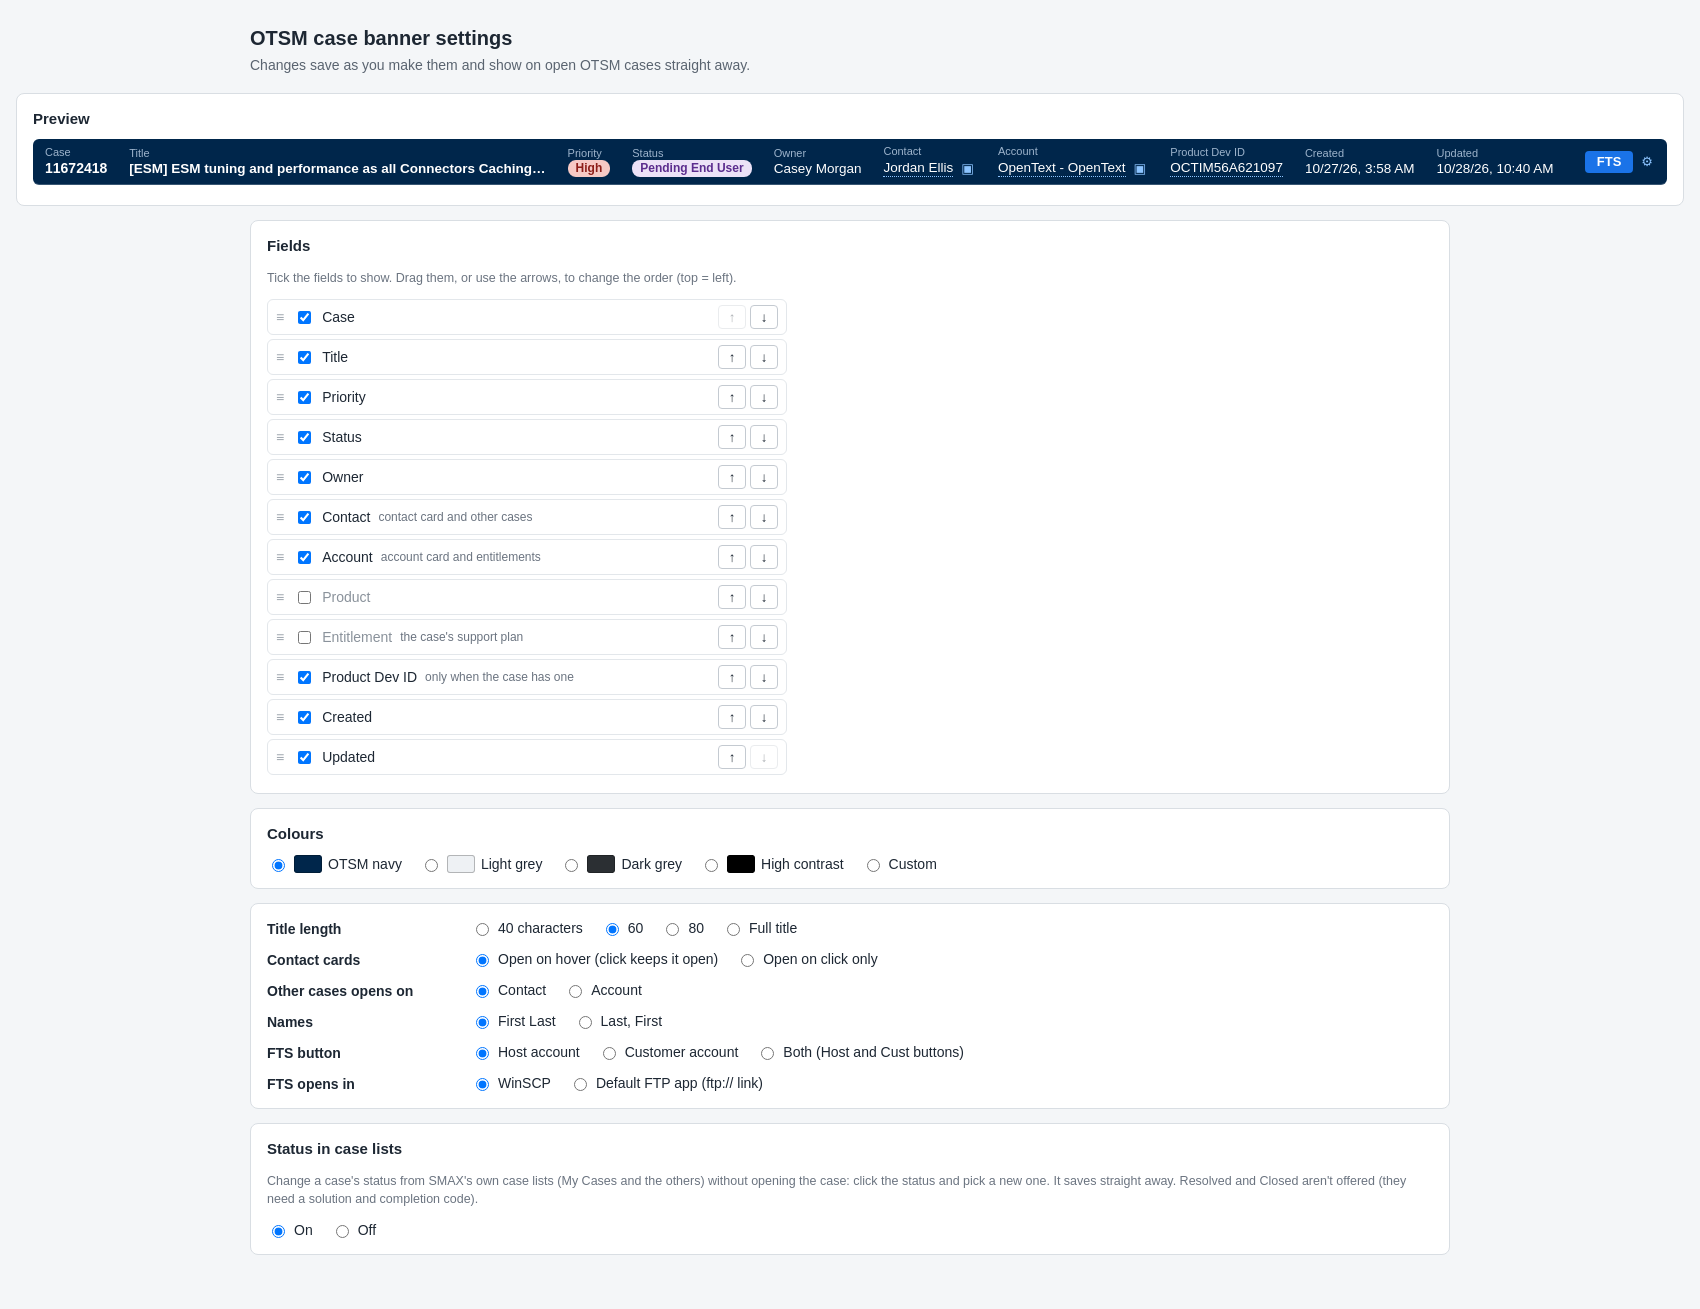
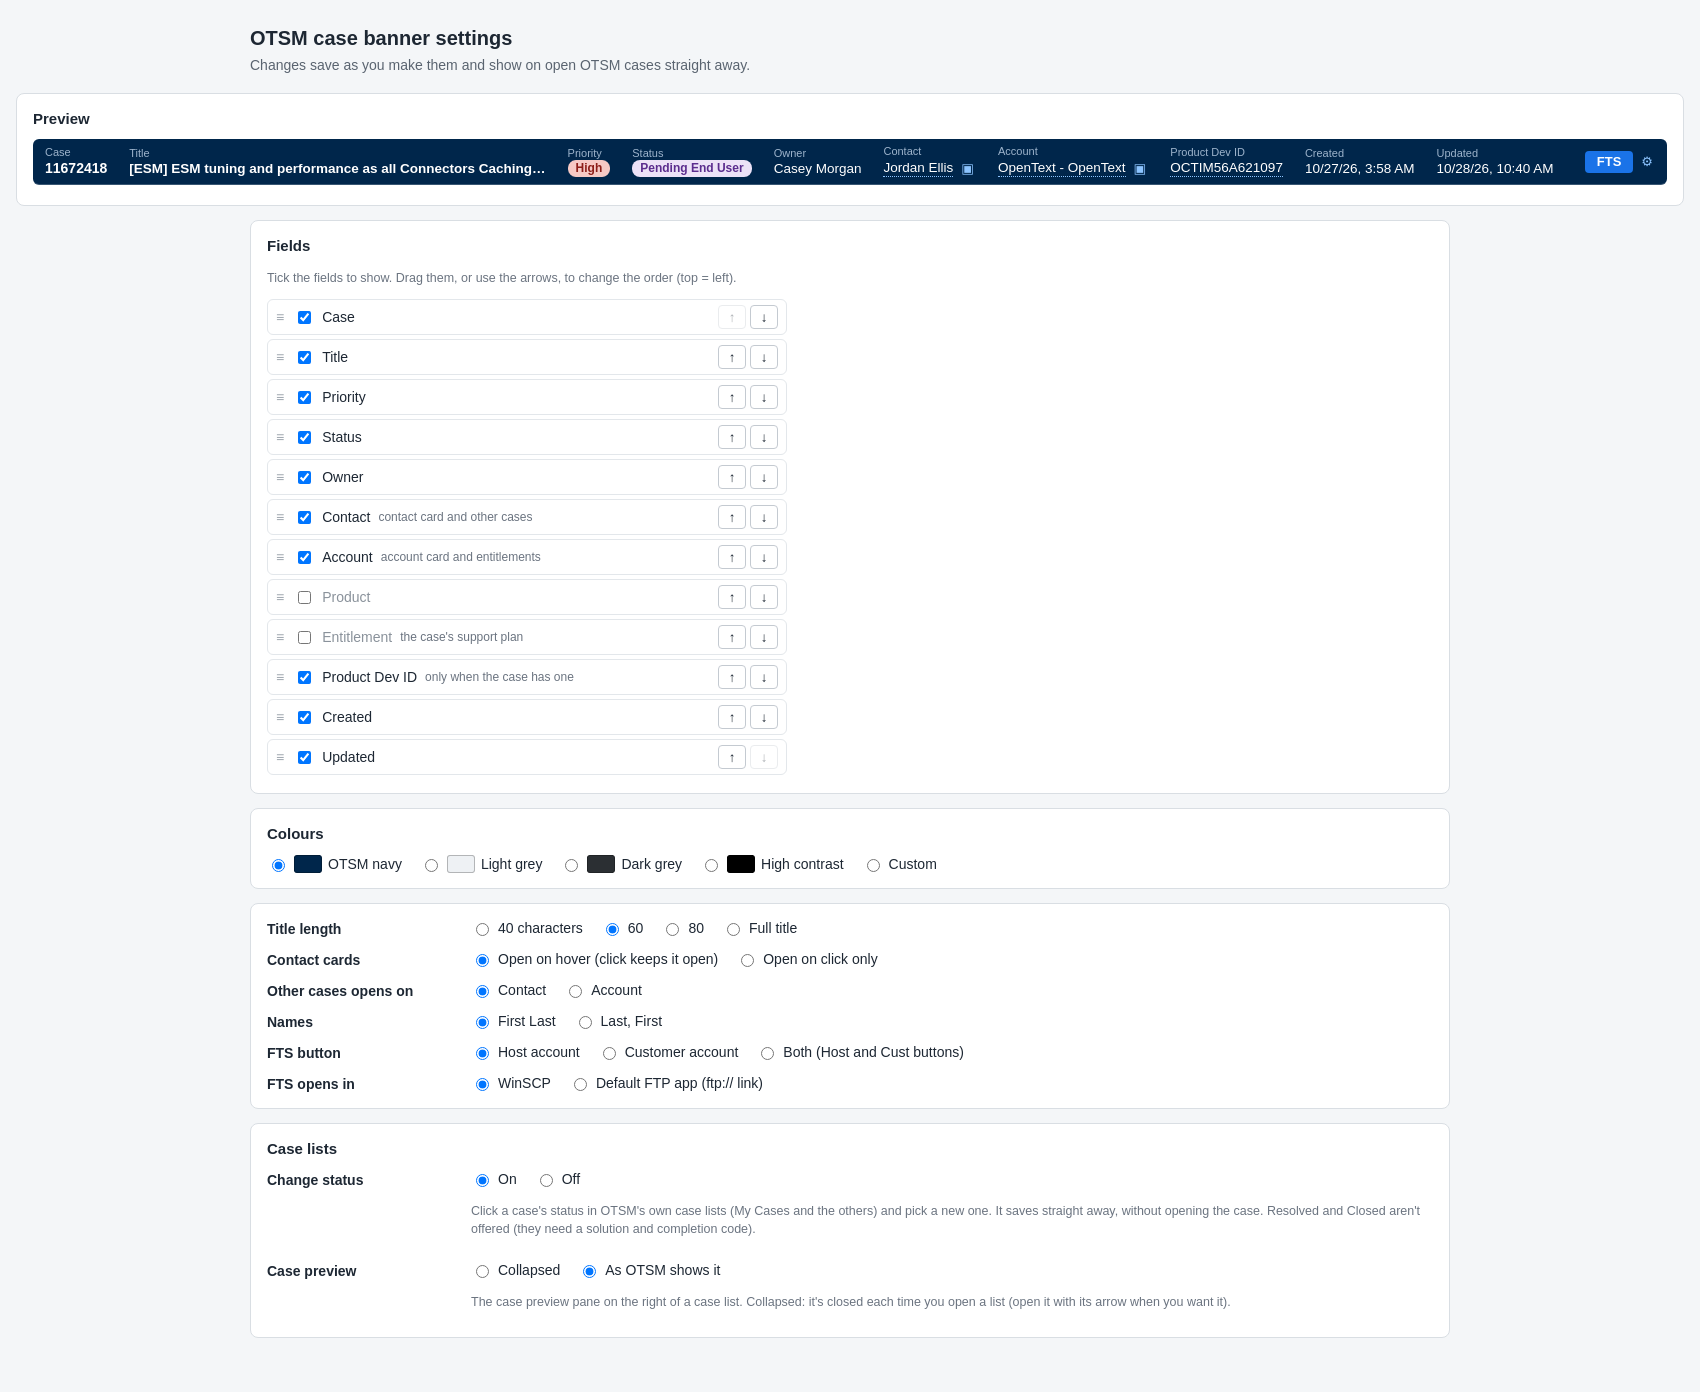
Release 1.7.3: optional collapsed case preview on case lists
Claude-Session: https://claude.ai/code/session_01NkpnDbqKsuBq5PSnVFxaiM

diff --git a/site/index.html b/site/index.html
@@ -87,6 +87,8 @@
     Pending End User, Needs Attention, Pending Internal or Suspended. It saves straight away, the same way OTSM's Save does,
     without opening the case. If the case was changed by someone else in the meantime, OTSM's message says so and nothing
     is changed. Resolved and Closed aren't offered, because they need a solution and completion code. This can be turned off in the settings.</p>
+  <p>If you don't use the case preview on the right of OTSM's case lists, set <b>Case preview</b> to <b>Collapsed</b> in the
+    settings: it's then closed each time you open a list.</p>
   <figure><a href="img/status-list.png"><img src="img/status-list.png" alt="An OTSM case list with the status menu open on one case: Ready, In Progress (current), Pending End User, Needs Attention, Pending Internal and Suspended"></a></figure>
 
   <h3>Contact and account cards</h3>
@@ -162,6 +164,10 @@
 <section id="tab-changelog" class="tab">
   <h2>Changelog</h2>
   <dl class="changes">
+    <dt>1.7.3 <span>October 29, 2026</span></dt>
+    <dd><ul>
+      <li>Setting: start case lists with OTSM's case preview pane collapsed (Settings, Case lists, Case preview).</li>
+    </ul></dd>
     <dt>1.7.2 <span>October 29, 2026</span></dt>
     <dd><ul>
       <li>Firefox: install with one click from this page; Firefox installs new versions by itself.</li>
